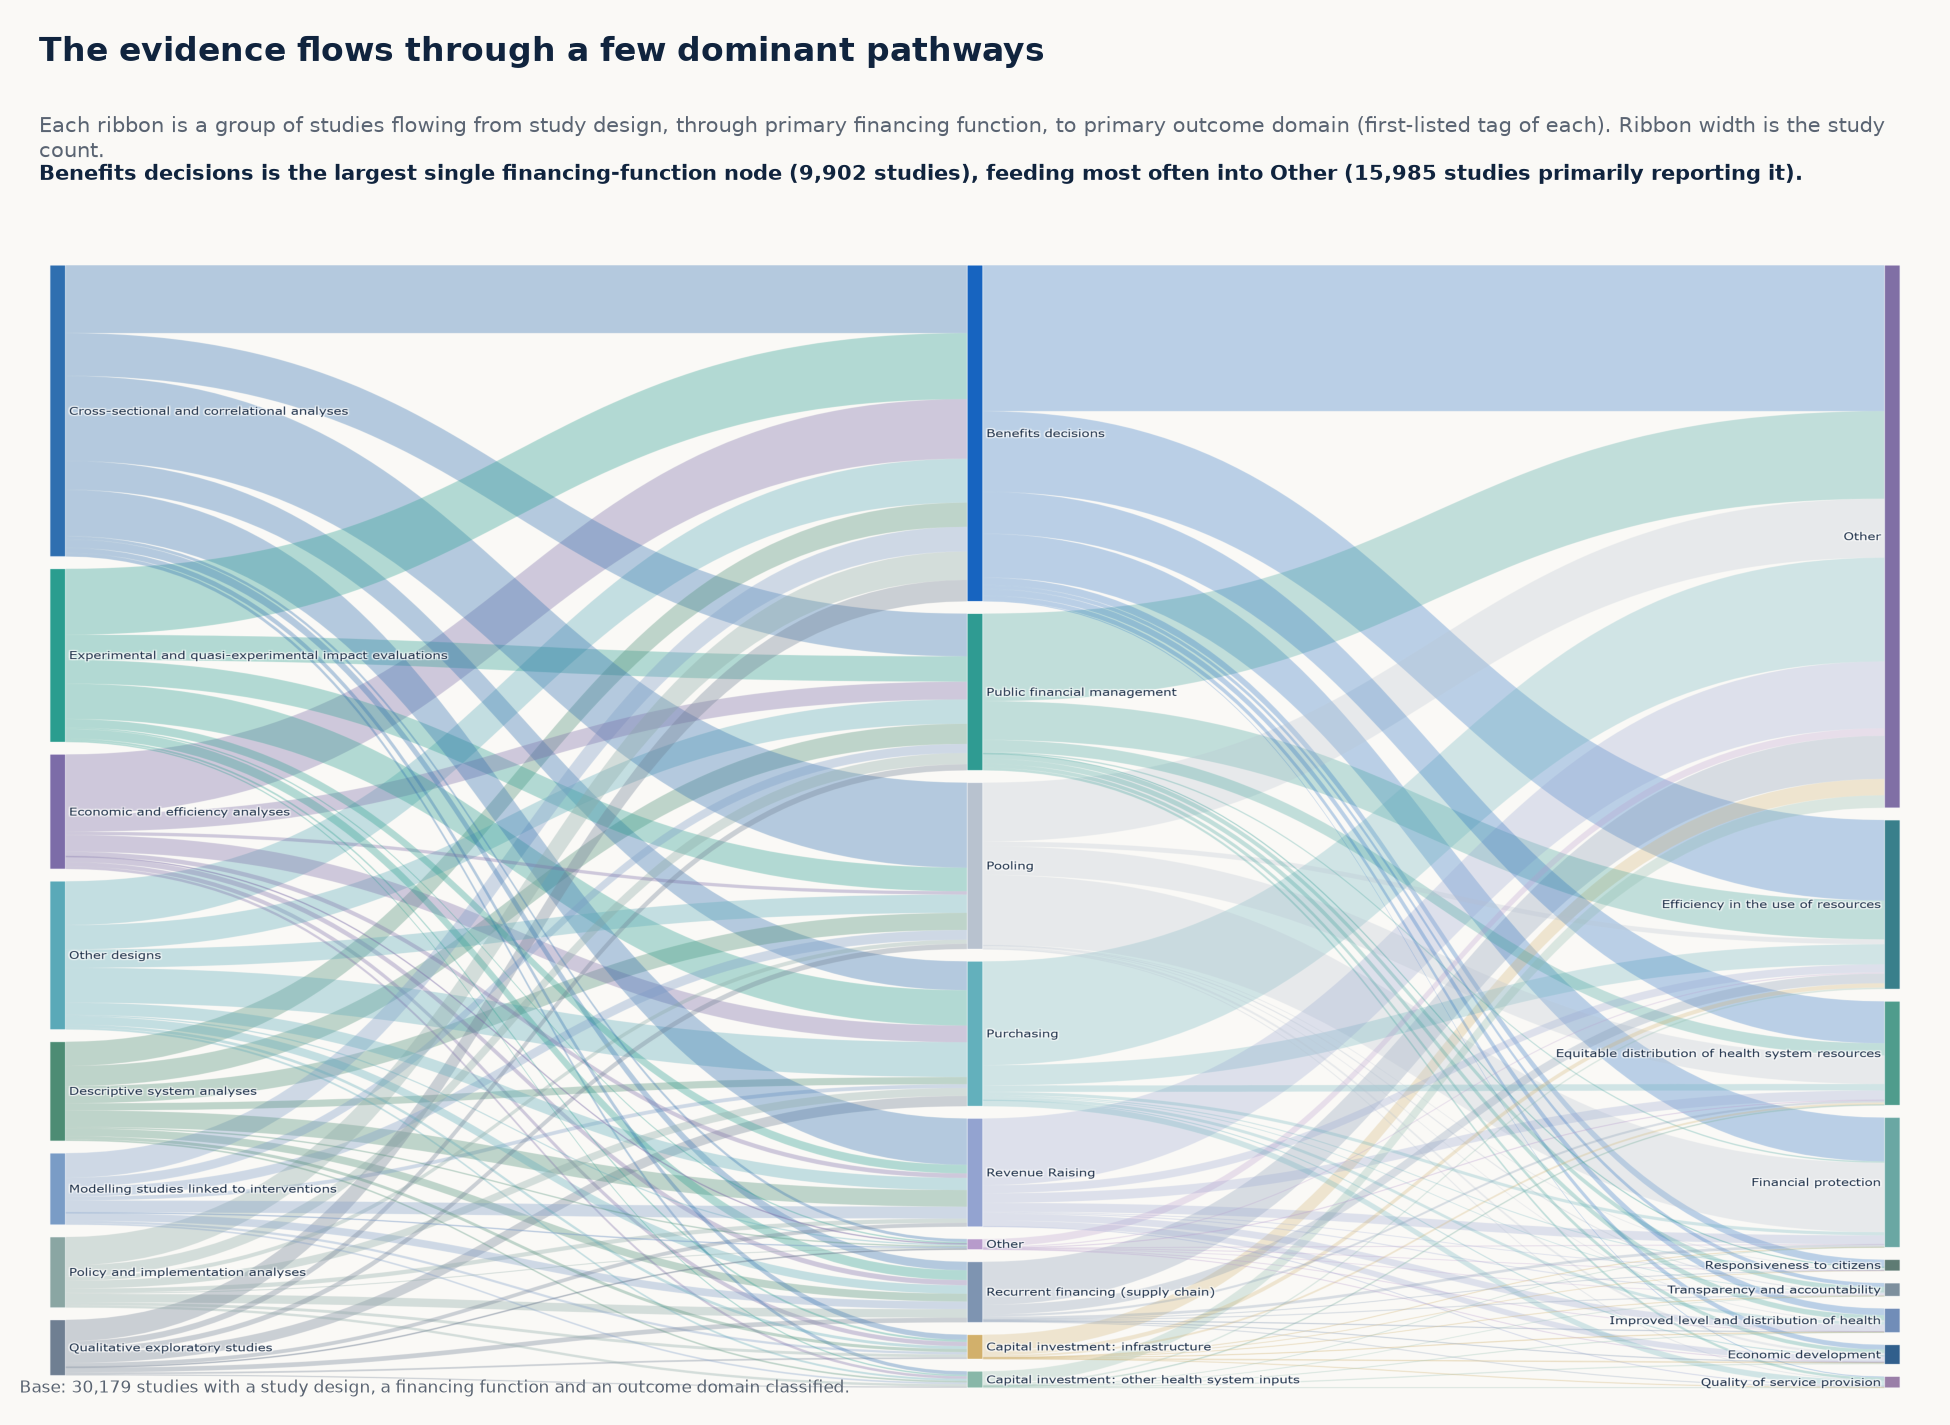
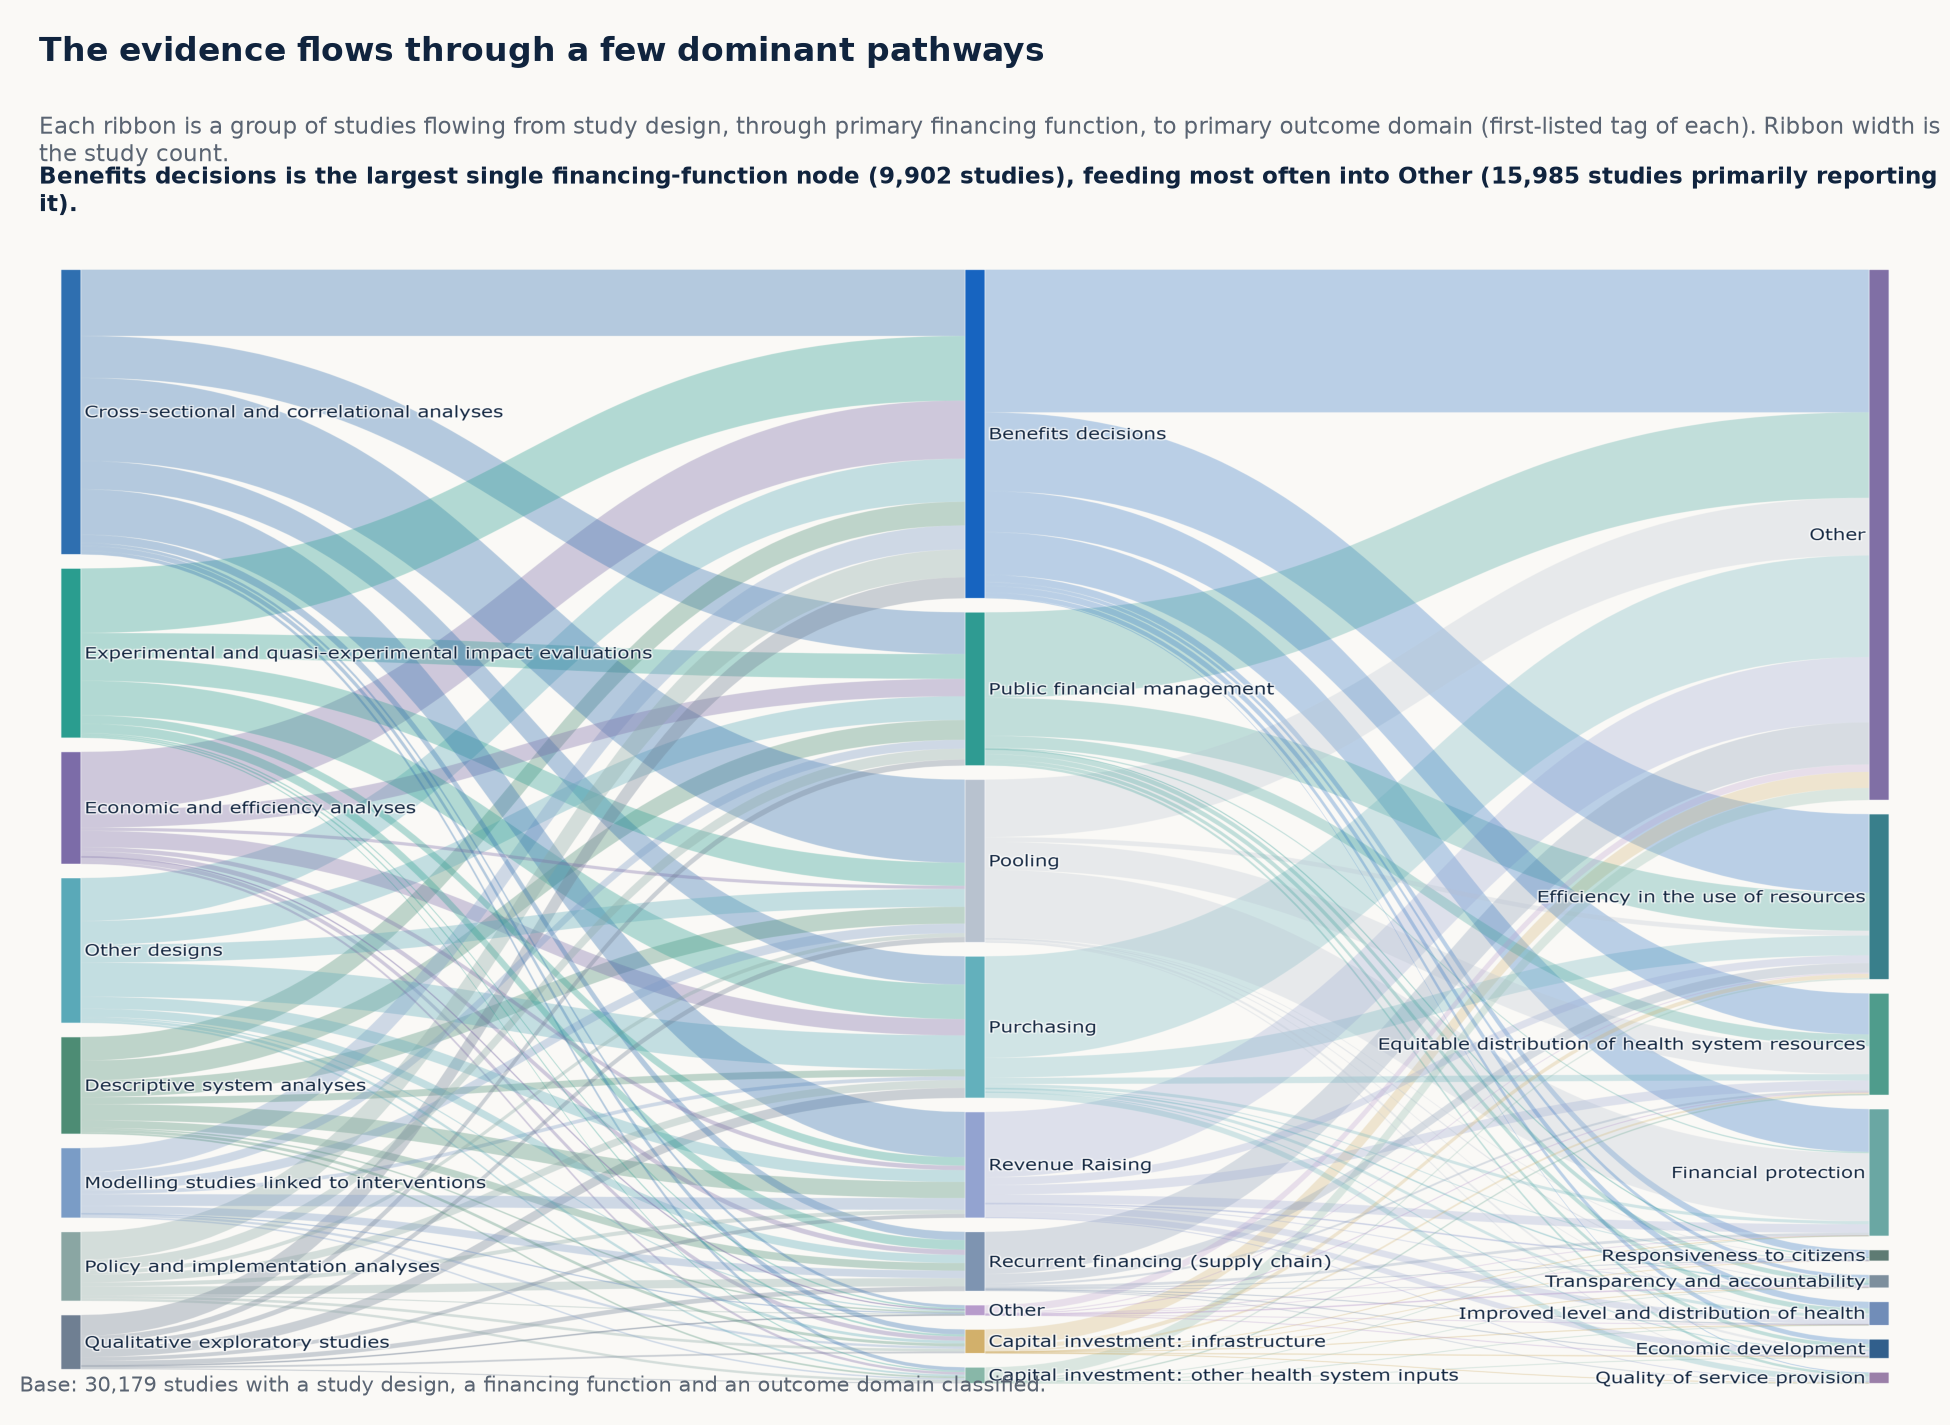
Updated Wellcome analysi

diff --git a/docs/index.html b/docs/index.html
@@ -101,6 +101,16 @@
           </button>
         </div>
       </div>
+      <div class="card overview-analysis-card overview-analysis-card-wide">
+        <div class="card-header">Funding and evidence across Wellcome priority themes</div>
+        <div class="card-body overview-analysis-body overview-analysis-body-wide">
+          <button class="overview-figure-button" id="ov-wellcome-open" type="button"
+                  aria-label="Open the figure showing funding and evidence across Wellcome priority themes">
+            <img class="overview-analysis-figure" src="figures/fig_wellcome_priorities.png?v=2026-10-07"
+                 alt="Two-panel chart showing the amount of evidence and leading donors across Wellcome priority themes">
+          </button>
+        </div>
+      </div>
     </div>
   </section>
 

diff --git a/docs/app.js b/docs/app.js
@@ -2345,6 +2345,7 @@ if (typeof document !== "undefined") {
     $("ov-function-open").addEventListener("click", () => openModal("fig_function_bar.png"));
     $("ov-funders-open").addEventListener("click", () => openModal("fig_funder_funders_treemap.png"));
     $("ov-disease-method-open").addEventListener("click", () => openModal("fig_disease_method.png"));
+    $("ov-wellcome-open").addEventListener("click", () => openModal("fig_wellcome_priorities.png"));
     $("study-modal-close").addEventListener("click", closeStudyModal);
     $("study-modal").addEventListener("click", e => { if (e.target === $("study-modal")) closeStudyModal(); });
     $("functions-help-close").addEventListener("click", () => $("functions-help-modal").classList.remove("open"));

diff --git a/docs/dex_hff/build_figures_v5.py b/docs/dex_hff/build_figures_v5.py
@@ -3240,7 +3240,8 @@ if have_topics:
     cluster_color = {c: cmap(i / max(N_TOP - 1, 1)) for i, c in enumerate(top_clusters)}
 
     other = topic_map[~topic_map["cluster"].isin(top_clusters)]
-    fig, ax = plt.subplots(figsize=(9, 7.6))
+    fig = plt.figure(figsize=(11, 8.2))
+    ax = fig.add_axes([0.06, 0.13, 0.55, 0.58])
     ax.scatter(other["x"], other["y"], s=3, color=GREY, alpha=0.35, linewidths=0, zorder=2,
                label=f"Other / unclustered ({len(other):,})")
     for c in top_clusters:
@@ -3248,20 +3249,32 @@ if have_topics:
         lbl = topic_labels.loc[c, "label"]
         ax.scatter(sub["x"], sub["y"], s=4, color=cluster_color[c], alpha=0.6, linewidths=0,
                    zorder=3, label=f"{lbl} ({len(sub):,})")
-    set_headline(ax, "A handful of themes dominate the thematic landscape",
-                 "Abstract embeddings, UMAP + HDBSCAN — each point is one study, positioned by similarity.",
-                 f"'{top_theme_label}' is the largest emergent theme at {top_theme_n:,} studies; the top 12 "
-                 f"themes shown here cover about {top_theme_share}% of all topic-embedded studies.",
-                 "fig_topicmap.png")
+    topic_headline = "A handful of themes dominate the thematic landscape"
+    topic_desc = "Abstract embeddings, UMAP + HDBSCAN - each point is one study, positioned by similarity."
+    topic_finding = (f"'{top_theme_label}' is the largest emergent theme at {top_theme_n:,} studies; "
+                     f"the top 12 themes shown here cover about {top_theme_share}% of all "
+                     f"topic-embedded studies.")
+    FIG_META["fig_topicmap.png"] = (topic_headline, topic_desc, topic_finding)
+    fig.text(0.04, 0.965, D(topic_headline), fontsize=16, fontweight="bold",
+             color=INK, ha="left", va="top")
+    fig.text(0.04, 0.91, D(topic_desc), fontsize=10.5, color=SUBHEAD_COLOR,
+             ha="left", va="top")
+    fig.text(0.04, 0.855, D("\n".join(textwrap.wrap(topic_finding, width=105))),
+             fontsize=10.5, fontweight="bold", color=INK, ha="left", va="top",
+             linespacing=1.25)
     ax.set_xticks([]); ax.set_yticks([])
     for spine in ax.spines.values():
         spine.set_visible(False)
-    ax.legend(loc="center left", bbox_to_anchor=(1.01, 0.5), fontsize=8, frameon=False,
-              markerscale=3, title=f"Top {N_TOP} themes")
-    set_footnote(fig, f"Base: {len(topic_map):,} studies with a topic embedding. Position = 2D UMAP projection of "
-                       f"sentence embeddings; colour = HDBSCAN cluster.")
-    fig.tight_layout()
-    fig.savefig(FIGS / "fig_topicmap.png", dpi=150, bbox_inches="tight")
+    ax.legend(loc="center left", bbox_to_anchor=(1.04, 0.5), fontsize=8.5,
+              frameon=False, markerscale=3, title=f"Top {N_TOP} themes",
+              title_fontsize=10.5)
+    topic_footnote = (f"Base: {len(topic_map):,} studies with a topic embedding. Position = 2D UMAP "
+                      "projection of sentence embeddings; colour = HDBSCAN cluster.")
+    fig.text(0.04, 0.055, D(topic_footnote), fontsize=8.5, color=SUBHEAD_COLOR,
+             ha="left", va="bottom")
+    fig.patch.set_facecolor(PAPER)
+    ax.set_facecolor(PAPER)
+    fig.savefig(FIGS / "fig_topicmap.png", dpi=150)
     plt.close(fig)
 
     theme_counts = {row["label"]: row["n"] for _, row in ranked.head(20).iterrows()}
@@ -3361,19 +3374,38 @@ if have_taxonomy:
         weight = 0.56 + 0.40 * np.sqrt(value / max_value)
         return tuple(1 - (1 - base) * weight)
 
-    N_BARS = 20
+    N_BARS = 40
     subfield_counts = tax["subfield"].value_counts()
     subfield_field = tax.groupby("subfield")["field"].agg(lambda s: s.mode()[0])
     top_subfields = subfield_counts.head(N_BARS)
     # Group contiguously by domain (biggest domain first), then by field within
     # domain, then by count within field — matches HEE's clustered layout.
-    bar_rows = list(reversed(list(top_subfields.items())))
-    bar_labels = ["\n".join(textwrap.wrap(name, width=38, break_long_words=False))
-                  for name, _ in bar_rows]
+    bar_rows = sorted(
+        top_subfields.items(),
+        key=lambda kv: (domain_order.index(field_domain[subfield_field[kv[0]]]),
+                        subfield_field[kv[0]], -kv[1])
+    )
+    bar_labels = [f"{name} {n:,}" for name, n in bar_rows]
     bar_values = [n for _, n in bar_rows]
     bar_domains = [field_domain[subfield_field[name]] for name, _ in bar_rows]
     bar_colors = [topic_color(d, v, int(top_subfields.iloc[0]))
                   for d, v in zip(bar_domains, bar_values)]
+
+    n_bars = len(bar_rows)
+    n_groups = len(set(bar_domains))
+    gap = np.radians(3.0)
+    total_gap = gap * n_groups
+    slot = (2 * np.pi - total_gap) / n_bars
+
+    theta = []
+    angle = 0.0
+    previous_domain = None
+    for domain in bar_domains:
+        if previous_domain is not None and domain != previous_domain:
+            angle += gap
+        theta.append(angle + slot / 2)
+        angle += slot
+        previous_domain = domain
 
     # bar_rows is sorted domain-then-field-then-count (for the chart's grouped
     # layout), NOT by count — the actual top subfield/domain come straight
@@ -3383,36 +3415,53 @@ if have_taxonomy:
     top_domain = domain_order[0]
     top_domain_n = int(domain_totals.iloc[0])
     headline = "One subfield dominates the topic taxonomy"
-    desc = "OpenAlex-style topic taxonomy - the 20 largest subfields, coloured by domain."
+    desc = "OpenAlex-style topic taxonomy - each radial bar is a subfield (length = studies), coloured by domain."
     finding = (f"'{top_subfield}' leads at {top_subfield_n:,} studies, {round(top_subfield_n / second_subfield_n, 1)}× "
                f"the next-largest ('{second_subfield}', {second_subfield_n:,}); {top_domain} accounts for "
                f"{top_domain_n:,} of {n_tax:,} studies with a topic label.")
     FIG_META["fig_topic_landscape.png"] = (headline, desc, finding)
 
-    fig, ax = plt.subplots(figsize=(12.8, 9.2))
-    y = np.arange(len(bar_rows))
-    ax.barh(y, bar_values, color=bar_colors, height=0.72, zorder=3)
-    ax.set_yticks(y, bar_labels)
-    ax.set_xlim(0, max(bar_values) * 1.16)
-    value_pad = max(bar_values) * 0.012
-    for row_y, value in zip(y, bar_values):
-        ax.text(value + value_pad, row_y, f"{value:,}", va="center", ha="left",
-                fontsize=8.8, color=INK, fontweight="bold")
-    ax.set_xlabel("studies")
-    ax.tick_params(axis="y", labelsize=8.8)
-    clean_axes(ax)
-    ax.grid(axis="y", visible=False)
-    ax.xaxis.set_major_formatter(mticker.StrMethodFormatter("{x:,.0f}"))
-    set_headline(ax, headline, desc, finding, "fig_topic_landscape.png")
+    fig = plt.figure(figsize=(11, 11.5))
+    ax = fig.add_axes([0.08, 0.06, 0.84, 0.76], projection="polar")
+    ax.set_theta_zero_location("N")
+    ax.set_theta_direction(-1)
+    inner_r = max(bar_values) * 0.18
+    ax.bar(theta, bar_values, width=slot * 0.85, bottom=inner_r,
+           color=bar_colors, edgecolor=PAPER, linewidth=0.6, zorder=3)
+    for angle, value, label in zip(theta, bar_values, bar_labels):
+        degrees = np.degrees(angle)
+        ha = "left" if degrees < 180 else "right"
+        rotation = 90 - degrees if degrees < 180 else 270 - degrees
+        ax.text(angle, inner_r + value + max(bar_values) * 0.02, label,
+                rotation=rotation, rotation_mode="anchor", ha=ha, va="center",
+                fontsize=7, color=INK)
+    ax.text(0, 0, f"{n_tax:,}\nstudies", ha="center", va="center",
+            fontsize=13, fontweight="bold", color=INK, transform=ax.transData)
+    ax.set_ylim(0, inner_r + max(bar_values) * 1.35)
+    ax.set_xticks([])
+    ax.set_yticks([])
+    ax.spines["polar"].set_visible(False)
+    ax.grid(False)
+
+    fig.text(0.02, 0.975, D(headline), fontsize=14.5, fontweight="bold",
+             color=INK, ha="left", va="top")
+    fig.text(0.02, 0.94, D(desc), fontsize=10.5, color=SUBHEAD_COLOR,
+             ha="left", va="top")
+    fig.text(0.02, 0.915, D(finding), fontsize=10.5, fontweight="bold",
+             color=INK, ha="left", va="top", wrap=True)
     shown_domains = [d for d in domain_order if d in bar_domains]
     legend_handles = [plt.Rectangle((0, 0), 1, 1, color=domain_palette[d]) for d in shown_domains]
-    ax.legend(legend_handles, shown_domains, loc="lower right", frameon=False,
-              fontsize=8.8, ncol=2)
-    set_footnote(fig, f"Base: {n_tax:,} studies with an ml_thematic_cluster label ({pct(n_tax, N)}% of the "
-                       f"analysis population). Top {N_BARS} subfields shown; colour identifies domain and "
-                       f"shade reflects study count.")
-    fig.subplots_adjust(left=0.31, right=0.96, top=0.78, bottom=0.12)
-    fig.savefig(FIGS / "fig_topic_landscape.png", dpi=150, bbox_inches="tight")
+    fig.legend(legend_handles, shown_domains, loc="lower center",
+               ncol=len(shown_domains), frameon=False, fontsize=9.5,
+               bbox_to_anchor=(0.5, 0.0))
+    fig.text(0.01, 0.035,
+             f"Base: {n_tax:,} studies with an ml_thematic_cluster label ({pct(n_tax, N)}% of the "
+             f"analysis population). Top {N_BARS} subfields shown, grouped and coloured by domain; "
+             f"shade reflects study count.",
+             fontsize=8.5, color=SUBHEAD_COLOR, ha="left", va="bottom")
+    fig.patch.set_facecolor(PAPER)
+    ax.set_facecolor(PAPER)
+    fig.savefig(FIGS / "fig_topic_landscape.png", dpi=150)
     plt.close(fig)
 
     # -----------------------------------------------------------------------
@@ -3875,11 +3924,11 @@ if have_taxonomy:
                        [outcome_palette_sk.get(o, "#7d8f9d") for o in out_list])
 
     sankey_fig = go.Figure(go.Sankey(
-        node=dict(label=[SHORT_FN.get(n, n) for n in node_labels], color=node_colors_sk, pad=14, thickness=14,
+        node=dict(label=[SHORT_FN.get(n, n) for n in node_labels], color=node_colors_sk, pad=16, thickness=18,
                   line=dict(color="white", width=0.5)),
         link=dict(source=sk_sources, target=sk_targets, value=sk_values, color=sk_colors)))
-    sankey_fig.update_layout(width=1700, height=1300, margin=dict(l=10, r=10, t=10, b=10),
-                              paper_bgcolor="rgba(0,0,0,0)", font=dict(size=12, color=INK))
+    sankey_fig.update_layout(width=1700, height=1300, margin=dict(l=20, r=20, t=15, b=15),
+                              paper_bgcolor="rgba(0,0,0,0)", font=dict(size=18, color=INK))
     tmp_sankey = FIGS / "_tmp_fig_alluvial.png"
     sankey_fig.write_image(str(tmp_sankey), scale=2)
 
@@ -3904,11 +3953,11 @@ if have_taxonomy:
     ax_sk.axis("off")
     ax_sk.set_facecolor(PAPER)
     fig.text(0.02, 0.975, D(al_headline), fontsize=16, fontweight="bold", color=INK, ha="left", va="top")
-    fig.text(0.02, 0.92, D(al_desc), fontsize=10, color=SUBHEAD_COLOR, ha="left", va="top", wrap=True)
-    fig.text(0.02, 0.885, D(al_finding), fontsize=10, fontweight="bold", color=INK, ha="left", va="top",
+    fig.text(0.02, 0.92, D(al_desc), fontsize=11, color=SUBHEAD_COLOR, ha="left", va="top", wrap=True)
+    fig.text(0.02, 0.885, D(al_finding), fontsize=11, fontweight="bold", color=INK, ha="left", va="top",
              wrap=True)
     fig.text(0.01, 0.02, f"Base: {len(sankey_rows):,} studies with a study design, a financing function and "
-                         f"an outcome domain classified.", fontsize=8, color=SUBHEAD_COLOR, ha="left",
+                         f"an outcome domain classified.", fontsize=10, color=SUBHEAD_COLOR, ha="left",
              va="bottom")
     fig.patch.set_facecolor(PAPER)
     fig.savefig(FIGS / "fig_alluvial.png", dpi=150)
@@ -5182,6 +5231,9 @@ gallery = [
             [fig_entry("fig_topicmap.png", "Thematic landscape"),
              fig_entry("fig_theme_rank.png", "Top 20 research themes"),
              fig_entry("fig_topicmap_income.png", "Themes by income skew")] if have_topics else []
+        ) + (
+            [fig_entry("fig_wellcome_priorities.png",
+                       "Funding and evidence across Wellcome priority themes")] if have_funders else []
         ),
     } if (have_topics or have_taxonomy) else None,
     {
@@ -5223,7 +5275,6 @@ gallery = [
         ) + ([
             fig_entry("fig_funder_funders.png", "The top research funders"),
             fig_entry("fig_funder_funders_treemap.png", "The top research funders (treemap option)"),
-            fig_entry("fig_wellcome_priorities.png", "Funding and evidence across Wellcome priority themes"),
             fig_entry("fig_funder_function_heatmap.png", "What each top funder pays for"),
             fig_entry("fig_funder_function_bubbles.png", "What each top funder pays for (bubble option)"),
             fig_entry("fig_funder_outcome_heatmap.png", "What each top funder's research finds"),
